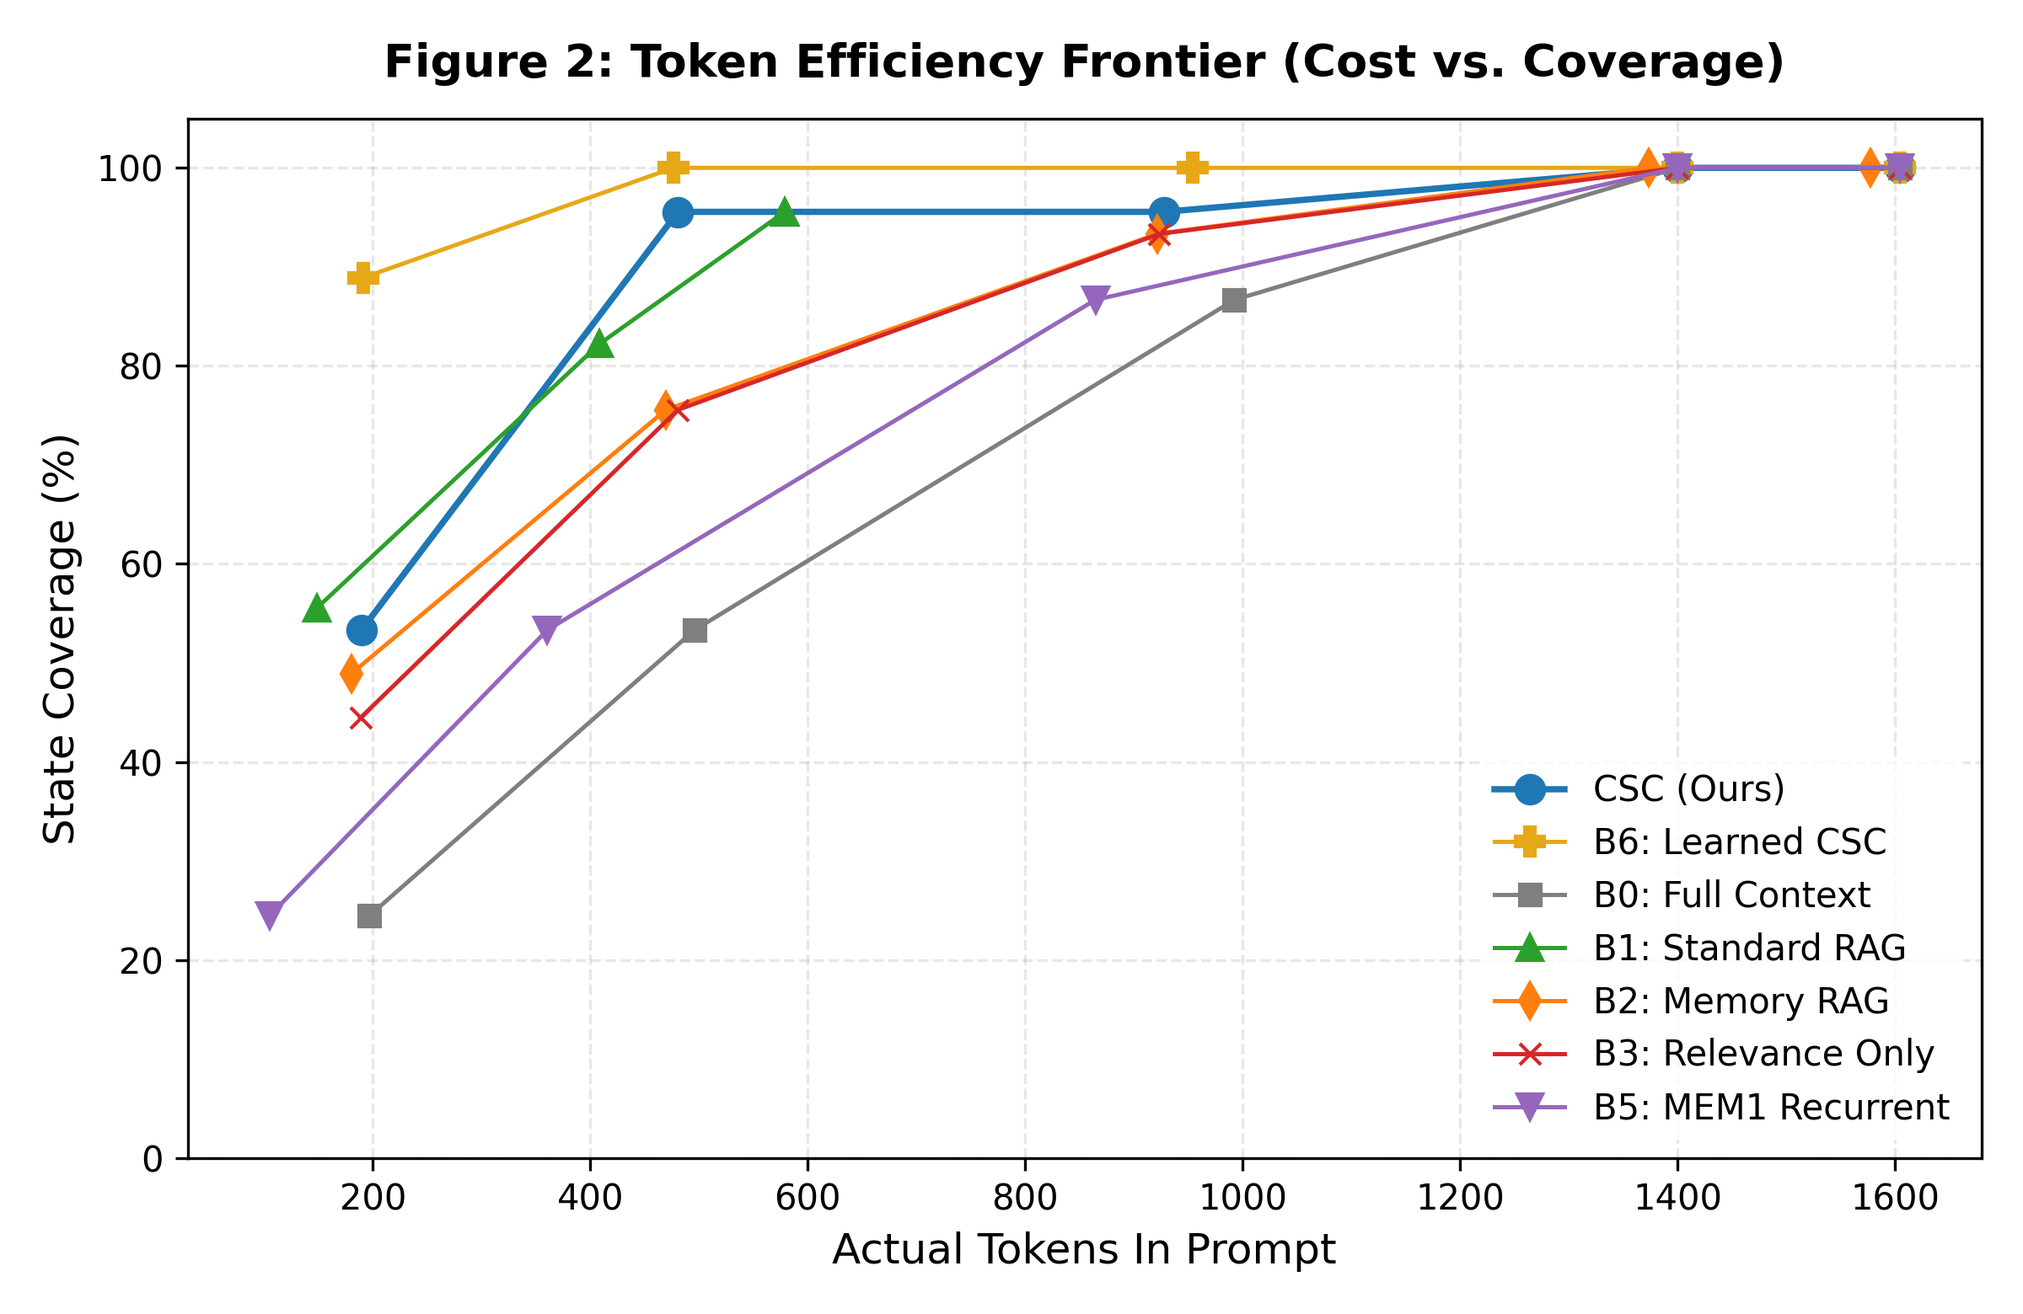
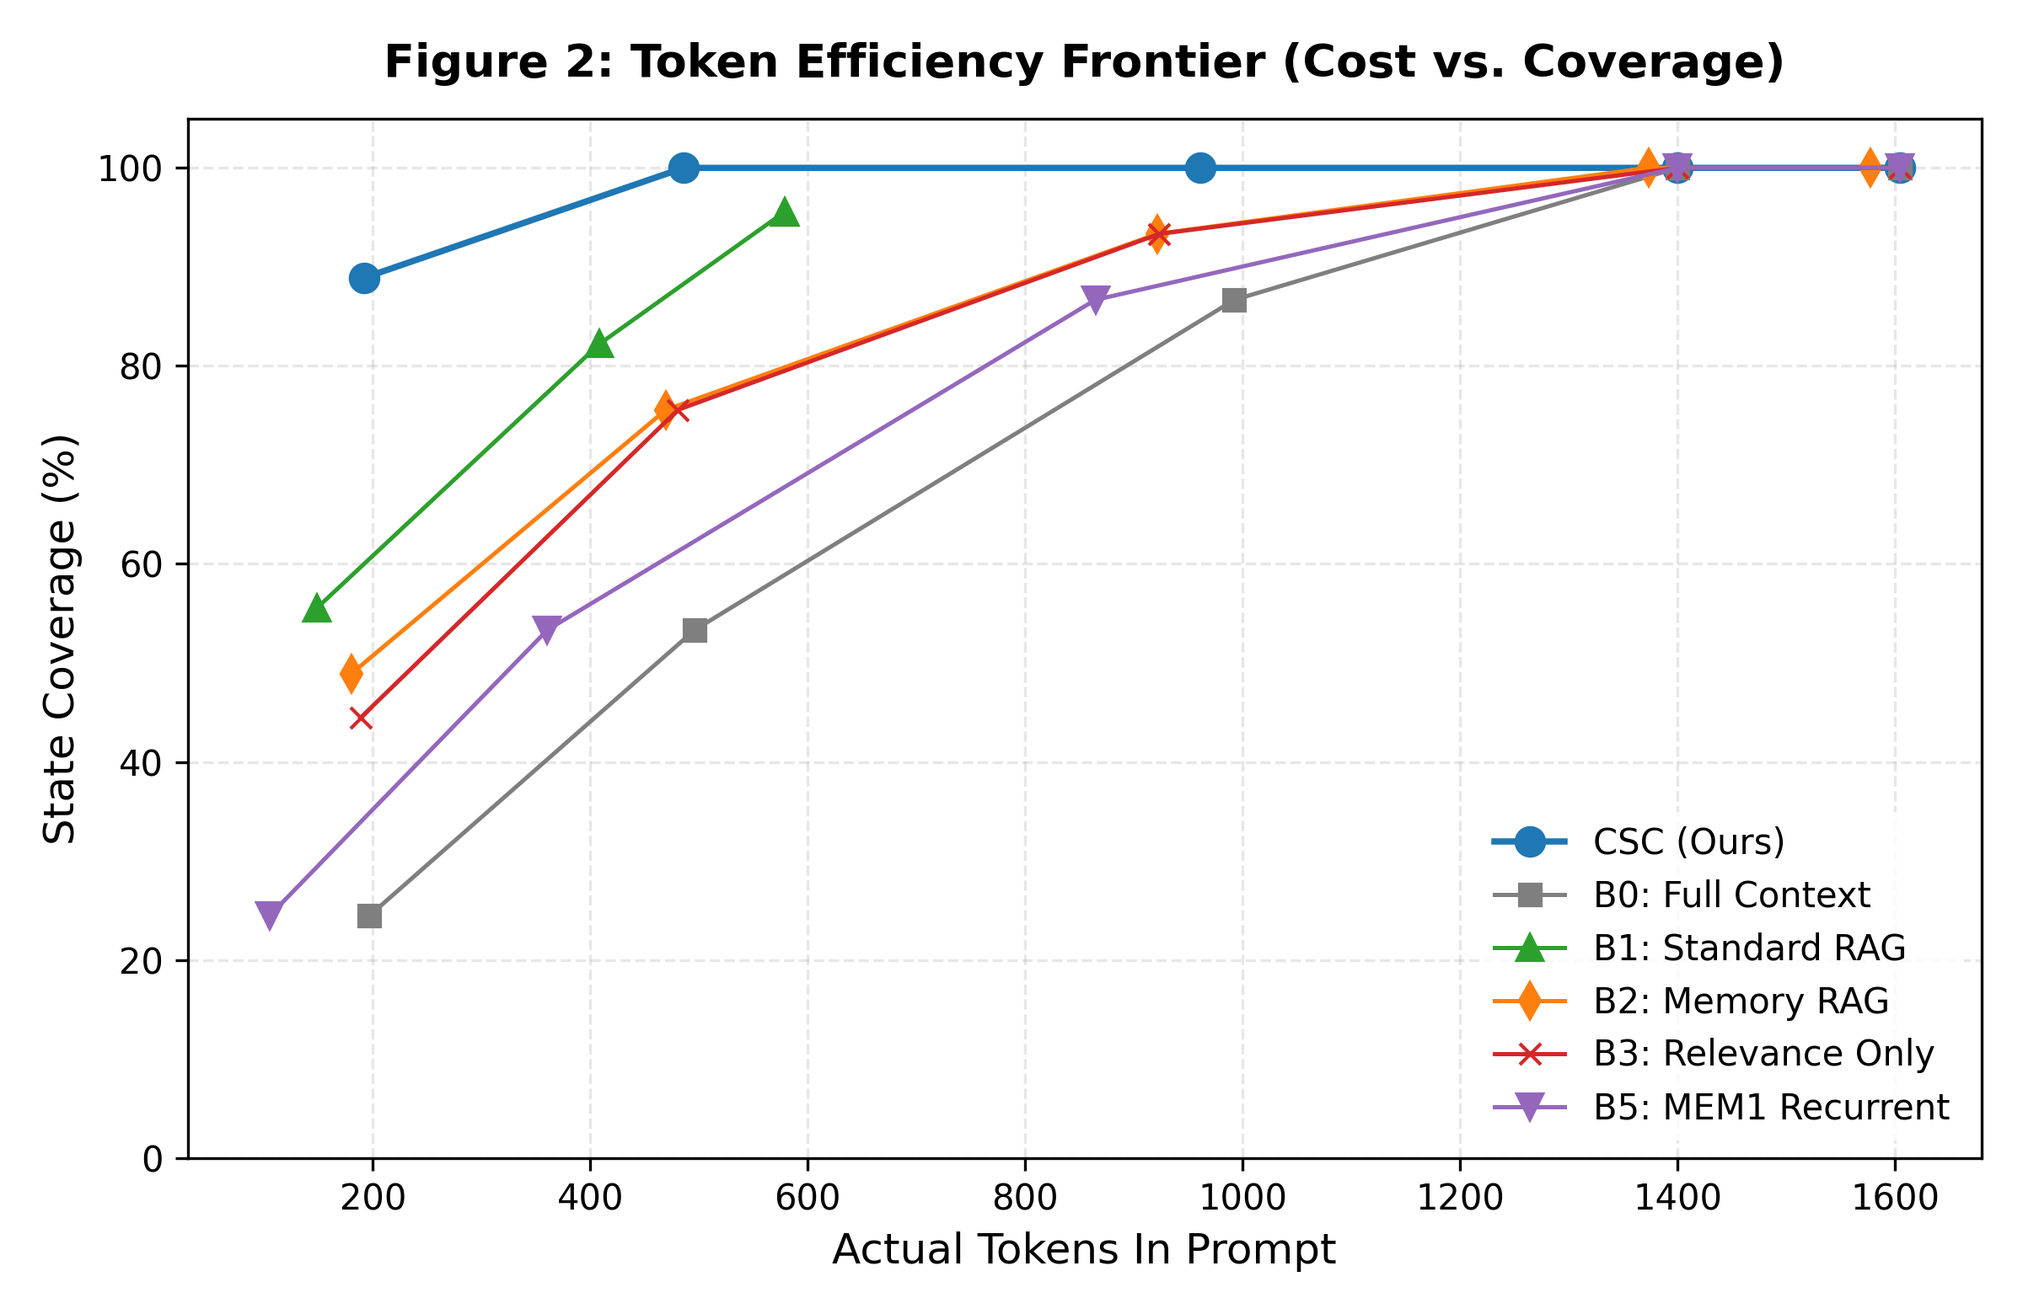
refactor: unify learned GBT model as primary B4_csc across all benchmarks, ablations, and publication figures

diff --git a/csc/learned_scorer.py b/csc/learned_scorer.py
@@ -40,9 +40,10 @@ def _extract_keywords(text: str) -> set:
     return {w for w in words if w not in stopwords}
 
 
-def extract_features(task: Task, resource: Resource, all_resources: List[Resource]) -> np.ndarray:
+def extract_batch_features(task: Task, resources: List[Resource]) -> np.ndarray:
     """
-    Extracts a fixed-size feature vector for a (task, resource) pair.
+    Extracts fixed-size feature vectors for a batch of resources under a given task.
+    Fits TF-IDF vectorizers once per task for maximum vectorization speed.
 
     Features (9-dim):
         0: TF-IDF cosine similarity (unigram)
@@ -55,48 +56,49 @@ def extract_features(task: Task, resource: Resource, all_resources: List[Resourc
         7: Normalized token cost (relative to max in pool)
         8: Utility density (hint / token_cost)
     """
-    # TF-IDF unigram similarity
-    texts_uni = [task.query, resource.text]
+    if not resources:
+        return np.empty((0, 9), dtype=np.float64)
+
+    texts = [task.query] + [r.text for r in resources]
     try:
         vec_uni = TfidfVectorizer(stop_words="english", ngram_range=(1, 1))
-        X_uni = vec_uni.fit_transform(texts_uni)
-        sim_uni = float(cosine_similarity(X_uni[0:1], X_uni[1:]).ravel()[0])
-    except ValueError:
-        sim_uni = 0.0
+        X_uni = vec_uni.fit_transform(texts)
+        sims_uni = cosine_similarity(X_uni[0:1], X_uni[1:]).ravel()
+    except Exception:
+        sims_uni = np.zeros(len(resources))
 
-    # TF-IDF bigram similarity
     try:
         vec_bi = TfidfVectorizer(stop_words="english", ngram_range=(1, 2))
-        X_bi = vec_bi.fit_transform(texts_uni)
-        sim_bi = float(cosine_similarity(X_bi[0:1], X_bi[1:]).ravel()[0])
-    except ValueError:
-        sim_bi = 0.0
+        X_bi = vec_bi.fit_transform(texts)
+        sims_bi = cosine_similarity(X_bi[0:1], X_bi[1:]).ravel()
+    except Exception:
+        sims_bi = np.zeros(len(resources))
 
-    # Keyword overlap
     query_kw = _extract_keywords(task.query)
-    res_kw = _extract_keywords(resource.text)
-    overlap = len(query_kw & res_kw) / max(1, len(query_kw))
+    max_cost = max((r.token_cost for r in resources), default=1)
 
-    # Resource type one-hot
-    is_knowledge = float(resource.resource_type == "knowledge")
-    is_experience = float(resource.resource_type == "experience")
-    is_computation = float(resource.resource_type == "computation")
+    rows = []
+    for i, r in enumerate(resources):
+        res_kw = _extract_keywords(r.text)
+        overlap = len(query_kw & res_kw) / max(1, len(query_kw))
+        is_knowledge = float(r.resource_type == "knowledge")
+        is_experience = float(r.resource_type == "experience")
+        is_computation = float(r.resource_type == "computation")
+        hint = float(r.utility_hint)
+        norm_cost = r.token_cost / max(1, max_cost)
+        density = hint / max(1, r.token_cost)
 
-    # Utility hint
-    hint = float(resource.utility_hint)
+        rows.append([
+            sims_uni[i], sims_bi[i], overlap,
+            is_knowledge, is_experience, is_computation,
+            hint, norm_cost, density,
+        ])
+    return np.array(rows, dtype=np.float64)
 
-    # Normalized token cost
-    max_cost = max(r.token_cost for r in all_resources) if all_resources else 1
-    norm_cost = resource.token_cost / max(1, max_cost)
 
-    # Utility density
-    density = hint / max(1, resource.token_cost)
-
-    return np.array([
-        sim_uni, sim_bi, overlap,
-        is_knowledge, is_experience, is_computation,
-        hint, norm_cost, density,
-    ], dtype=np.float64)
+def extract_features(task: Task, resource: Resource, all_resources: List[Resource]) -> np.ndarray:
+    """Extracts features for a single (task, resource) pair."""
+    return extract_batch_features(task, [resource])[0]
 
 
 FEATURE_NAMES = [
@@ -127,17 +129,17 @@ def build_training_data(
 
     for task in tasks:
         resources = resource_map.get(task.task_id, [])
-        for resource in resources:
-            # Extract features
-            feats = extract_features(task, resource, resources)
-            X_rows.append(feats)
+        if not resources:
+            continue
+        feats = extract_batch_features(task, resources)
+        X_rows.append(feats)
 
-            # Derive label: does this resource cover any required fact?
+        for resource in resources:
             rtext = _normalize(resource.text)
             is_useful = any(_normalize(fact) in rtext for fact in task.required_facts)
             y_rows.append(float(is_useful))
 
-    return np.array(X_rows), np.array(y_rows)
+    return np.vstack(X_rows), np.array(y_rows)
 
 
 class TrainedUtilityScorer(UtilityScorer):
@@ -181,10 +183,8 @@ class TrainedUtilityScorer(UtilityScorer):
             print("Warning: No trained model found, falling back to DenseUtilityScorer.")
             return self._fallback.score(task, resources)
 
-        # Extract features for all resources
-        features = np.array([
-            extract_features(task, r, resources) for r in resources
-        ])
+        # Extract features for all resources in batch
+        features = extract_batch_features(task, resources)
 
         # Predict P(useful)
         probabilities = self._model.predict_proba(features)[:, 1]

diff --git a/scripts/plot_results.py b/scripts/plot_results.py
@@ -35,7 +35,6 @@ def plot_figure_1_performance_vs_budget(summary_df: pd.DataFrame, out_dir: Path)
 
     method_styles = {
         "B4_csc": {"label": "CSC (Ours)", "color": "#1f77b4", "marker": "o", "linewidth": 2.5, "zorder": 5},
-        "B6_learned_csc": {"label": "B6: Learned CSC", "color": "#e6a817", "marker": "P", "linewidth": 2.5, "zorder": 5, "linestyle": "-"},
         "B0_full_context": {"label": "B0: Full Context", "color": "#7f7f7f", "marker": "s", "linewidth": 1.5, "linestyle": ":"},
         "B1_standard_rag": {"label": "B1: Standard RAG", "color": "#2ca02c", "marker": "^", "linewidth": 1.8, "linestyle": "--"},
         "B2_memory_rag": {"label": "B2: Memory RAG", "color": "#ff7f0e", "marker": "d", "linewidth": 1.8, "linestyle": "-."},
@@ -92,7 +91,6 @@ def plot_figure_2_cost_vs_accuracy(summary_df: pd.DataFrame, out_dir: Path):
 
     method_colors = {
         "B4_csc": ("CSC (Ours)", "#1f77b4", "o", 8),
-        "B6_learned_csc": ("B6: Learned CSC", "#e6a817", "P", 8),
         "B0_full_context": ("B0: Full Context", "#7f7f7f", "s", 6),
         "B1_standard_rag": ("B1: Standard RAG", "#2ca02c", "^", 7),
         "B2_memory_rag": ("B2: Memory RAG", "#ff7f0e", "d", 7),
@@ -140,8 +138,8 @@ def plot_figure_3_ablation(ablation_summary_path: Path, out_dir: Path):
     fig, ax = plt.subplots(figsize=(8, 4.8), dpi=300)
 
     label_map = {
-        "Full_CSC": "Full CSC (All Pools)",
-        "Learned_CSC": "Learned CSC (GBT)",
+        "Full_CSC": "Full CSC (Learned GBT)",
+        "CSC_heuristic_dense": "Heuristic Utility (No Learn)",
         "CSC_no_experience": "w/o Experience (E)",
         "CSC_no_computation": "w/o Computation (C)",
         "CSC_no_budget_density": "w/o Budget Density",
@@ -149,7 +147,7 @@ def plot_figure_3_ablation(ablation_summary_path: Path, out_dir: Path):
     }
 
     sub500["label"] = sub500["ablation"].map(lambda x: label_map.get(x, x))
-    colors = ["#1f77b4", "#e6a817", "#ff7f0e", "#2ca02c", "#d62728", "#9467bd"]
+    colors = ["#1f77b4", "#ff7f0e", "#2ca02c", "#d62728", "#9467bd", "#8c564b"]
 
     bars = ax.bar(sub500["label"], sub500["coverage"] * 100, color=colors[:len(sub500)], width=0.55, edgecolor="black", linewidth=0.8)
 
@@ -189,10 +187,9 @@ def plot_figure_4_multidomain(multidomain_summary_path: Path, out_dir: Path):
     if sub500.empty:
         return
 
-    methods_to_plot = ["B4_csc", "B6_learned_csc", "B1_standard_rag", "B0_full_context", "B5_mem1_style"]
+    methods_to_plot = ["B4_csc", "B1_standard_rag", "B0_full_context", "B5_mem1_style"]
     method_labels = {
-        "B4_csc": "CSC (Heuristic)",
-        "B6_learned_csc": "CSC (Learned)",
+        "B4_csc": "CSC (Ours)",
         "B1_standard_rag": "Standard RAG",
         "B0_full_context": "Full Context",
         "B5_mem1_style": "MEM1 Style",
@@ -206,11 +203,11 @@ def plot_figure_4_multidomain(multidomain_summary_path: Path, out_dir: Path):
 
     domains = ["hotpotqa", "nq", "nq_chained", "webshop"]
     x = np.arange(len(domains))
-    width = 0.16
+    width = 0.20
 
-    fig, ax = plt.subplots(figsize=(10, 5.4), dpi=300)
+    fig, ax = plt.subplots(figsize=(9, 5.2), dpi=300)
 
-    colors = ["#1f77b4", "#e6a817", "#2ca02c", "#7f7f7f", "#9467bd"]
+    colors = ["#1f77b4", "#2ca02c", "#7f7f7f", "#9467bd"]
 
     for idx, (m, col) in enumerate(zip(methods_to_plot, colors)):
         values = []
@@ -219,7 +216,7 @@ def plot_figure_4_multidomain(multidomain_summary_path: Path, out_dir: Path):
             val = (row["coverage"].values[0] * 100) if not row.empty else 0.0
             values.append(val)
 
-        offset = (idx - 2.0) * width
+        offset = (idx - 1.5) * width
         rects = ax.bar(x + offset, values, width, label=method_labels[m], color=col, edgecolor="black", linewidth=0.6)
 
     ax.set_ylabel("State Coverage (% of Facts)")

diff --git a/scripts/run_ablations.py b/scripts/run_ablations.py
@@ -32,11 +32,13 @@ def run_ablations(limit: int = 15):
         budgets = [20, 40, 80, 120]
 
     rows = []
-    scorer = DenseUtilityScorer(
+    learned_scorer = TrainedUtilityScorer()
+    heuristic_scorer = DenseUtilityScorer(
         type_priors={"knowledge": 0.05, "experience": 0.15, "computation": 0.20},
         entity_weight=0.25,
         hint_weight=0.35,
     )
+    rel_scorer = RelevanceOnlyScorer()
 
     print(f"Running ablation study across {len(tasks)} tasks and {len(budgets)} budgets...")
 
@@ -44,19 +46,19 @@ def run_ablations(limit: int = 15):
         for task in tasks:
             resources = resource_map[task.task_id]
 
-            # 1. Full CSC (Knowledge + Experience + Computation)
-            full_csc_state = CognitiveStateCompiler(scorer, budget).compile(task, resources)
+            # 1. Full CSC (Learned GBT Scorer over all pools {K, E, C})
+            full_csc_state = CognitiveStateCompiler(learned_scorer, budget).compile(task, resources)
 
             # 2. CSC without Experience (K + C only)
             no_exp_resources = [r for r in resources if r.resource_type != "experience"]
-            no_exp_state = CognitiveStateCompiler(scorer, budget).compile(task, no_exp_resources)
+            no_exp_state = CognitiveStateCompiler(learned_scorer, budget).compile(task, no_exp_resources)
 
             # 3. CSC without Computation (K + E only)
             no_comp_resources = [r for r in resources if r.resource_type != "computation"]
-            no_comp_state = CognitiveStateCompiler(scorer, budget).compile(task, no_comp_resources)
+            no_comp_state = CognitiveStateCompiler(learned_scorer, budget).compile(task, no_comp_resources)
 
-            # 4. CSC without Budget Constraint (Greedy by score, ignoring token cost density)
-            scored = scorer.score(task, resources)
+            # 4. CSC without Budget Density (Greedy by utility score, ignoring token cost density)
+            scored = learned_scorer.score(task, resources)
             unconstrained_selected = []
             rem = budget
             for r, s in scored:
@@ -65,23 +67,21 @@ def run_ablations(limit: int = 15):
                     rem -= r.token_cost
             no_budget_state = StateComposer().compose(unconstrained_selected, task.query, budget)
 
-            # 5. Relevance-Only (No resource-type priors)
-            rel_scorer = RelevanceOnlyScorer()
+            # 5. CSC with Heuristic-Only Scorer (TF-IDF + fixed priors)
+            heuristic_state = CognitiveStateCompiler(heuristic_scorer, budget).compile(task, resources)
+
+            # 6. Relevance-Only (No resource-type priors or learning)
             rel_scored = rel_scorer.score(task, resources)
             rel_selected = BudgetedSelector(budget).select(rel_scored)
             rel_state = StateComposer().compose(rel_selected, task.query, budget)
-
-            # 6. Learned CSC (Trained GBT scorer)
-            learned_scorer = TrainedUtilityScorer()
-            learned_state = CognitiveStateCompiler(learned_scorer, budget).compile(task, resources)
 
             ablations = {
                 "Full_CSC": full_csc_state,
                 "CSC_no_experience": no_exp_state,
                 "CSC_no_computation": no_comp_state,
                 "CSC_no_budget_density": no_budget_state,
+                "CSC_heuristic_dense": heuristic_state,
                 "Relevance_Only": rel_state,
-                "Learned_CSC": learned_state,
             }
 
             for name, state in ablations.items():

diff --git a/scripts/compare_with_mem1_literature.py b/scripts/compare_with_mem1_literature.py
@@ -22,7 +22,7 @@ sys.path.insert(0, str(Path(__file__).resolve().parent.parent))
 import pandas as pd
 from csc.types import Task, Resource, CompiledState
 from csc.compiler import CognitiveStateCompiler
-from csc.scorers import DenseUtilityScorer
+from csc.learned_scorer import TrainedUtilityScorer
 from csc.evaluation import evaluate_state, evaluate_prediction
 from csc.tokenizer import count_tokens
 from csc.dataset import load_mem1_benchmark
@@ -147,11 +147,7 @@ def run_sliding_window(episode_turns: List[Tuple[Task, List[Resource]]], budget:
 def run_csc_compiler(episode_turns: List[Tuple[Task, List[Resource]]], budget: int = 512) -> List[Dict[str, Any]]:
     """Cognitive State Compilation: solves budgeted knapsack across heterogeneous {K, E, C}."""
     compiler = CognitiveStateCompiler(
-        scorer=DenseUtilityScorer(
-            type_priors={"knowledge": 0.05, "experience": 0.15, "computation": 0.15},
-            entity_weight=0.35,
-            hint_weight=0.25,
-        ),
+        scorer=TrainedUtilityScorer(),
         budget=budget,
         type_caps={"knowledge": int(budget * 0.70), "experience": int(budget * 0.20), "computation": int(budget * 0.20)},
     )
@@ -178,9 +174,14 @@ def main():
     print("CSC vs. MEM1 LITERATURE BENCHMARK EVALUATION")
     print("=" * 80)
     
-    # 1. Prepare raw tasks
-    raw_rows = fetch_nq_rows(args.samples)
-    nq_tasks = build_nq_benchmark(raw_rows[:args.samples])
+    # 1. Prepare raw tasks (prefer local benchmark file to avoid network delays)
+    nq_file = Path("data/mem1_nq_benchmark.json")
+    if nq_file.exists():
+        with open(nq_file, "r", encoding="utf-8") as f:
+            nq_tasks = json.load(f)[:args.samples]
+    else:
+        raw_rows = fetch_nq_rows(args.samples)
+        nq_tasks = build_nq_benchmark(raw_rows[:args.samples])
     
     horizons = [2, 4, 8, 16]
     episodes_data = build_multiturn_episode_dataset(nq_tasks, horizons)

diff --git a/tests/test_csc.py b/tests/test_csc.py
@@ -1,6 +1,7 @@
 import unittest
 from csc.types import Task, Resource
 from csc.scorers import TfidfUtilityScorer, DenseUtilityScorer, RelevanceOnlyScorer
+from csc.learned_scorer import TrainedUtilityScorer
 from csc.compiler import CognitiveStateCompiler
 from csc.tokenizer import count_tokens, truncate_to_tokens
 
@@ -41,6 +42,18 @@ class TestCSC(unittest.TestCase):
         scored = scorer.score(task, resources)
         self.assertEqual(len(scored), 2)
         # The relevant computation trace should be ranked #1
+        self.assertEqual(scored[0][0].resource_id, "c1")
+        self.assertGreater(scored[0][1], scored[1][1])
+
+    def test_trained_utility_scorer(self):
+        task = Task("t1", "latency benchmark in Delhi", "28 ms", ["Delhi latency"])
+        resources = [
+            Resource("c1", "computation", "Latency benchmark result: Delhi 28 ms.", 10, utility_hint=0.8),
+            Resource("k1", "knowledge", "Unrelated weather report for Singapore.", 10, utility_hint=0.0),
+        ]
+        scorer = TrainedUtilityScorer()
+        scored = scorer.score(task, resources)
+        self.assertEqual(len(scored), 2)
         self.assertEqual(scored[0][0].resource_id, "c1")
         self.assertGreater(scored[0][1], scored[1][1])
 

diff --git a/scripts/run_demo.py b/scripts/run_demo.py
@@ -41,18 +41,10 @@ def run_benchmark_eval(benchmark_name: str, limit: int = 15) -> pd.DataFrame:
                 "B2_memory_rag": lambda: memory_augmented_rag(task, resources, budget),
                 "B3_relevance_only": lambda: relevance_only(task, resources, budget),
                 "B4_csc": lambda: CognitiveStateCompiler(
-                    DenseUtilityScorer(
-                        type_priors={"knowledge": 0.05, "experience": 0.15, "computation": 0.20},
-                        entity_weight=0.25,
-                        hint_weight=0.35,
-                    ),
-                    budget,
-                ).compile(task, resources),
-                "B5_mem1_style": lambda: mem1_style_recurrent(task, resources, budget),
-                "B6_learned_csc": lambda: CognitiveStateCompiler(
                     TrainedUtilityScorer(),
                     budget,
                 ).compile(task, resources),
+                "B5_mem1_style": lambda: mem1_style_recurrent(task, resources, budget),
             }
 
             for method, fn in methods.items():

diff --git a/scripts/run_llm_eval.py b/scripts/run_llm_eval.py
@@ -21,7 +21,7 @@ from csc.baselines import (
     mem1_style_recurrent,
 )
 from csc.compiler import CognitiveStateCompiler
-from csc.scorers import DenseUtilityScorer
+from csc.learned_scorer import TrainedUtilityScorer
 from csc.evaluation import evaluate_state, evaluate_prediction
 from csc.llm import OpenAICompatibleLLM, MockLLM
 
@@ -69,11 +69,7 @@ def run_llm_evaluation(
                 "B2_memory_rag": lambda: memory_augmented_rag(task, resources, budget),
                 "B3_relevance_only": lambda: relevance_only(task, resources, budget),
                 "B4_csc": lambda: CognitiveStateCompiler(
-                    DenseUtilityScorer(
-                        type_priors={"knowledge": 0.05, "experience": 0.15, "computation": 0.20},
-                        entity_weight=0.25,
-                        hint_weight=0.35,
-                    ),
+                    TrainedUtilityScorer(),
                     budget,
                 ).compile(task, resources),
                 "B5_mem1_style": lambda: mem1_style_recurrent(task, resources, budget),
